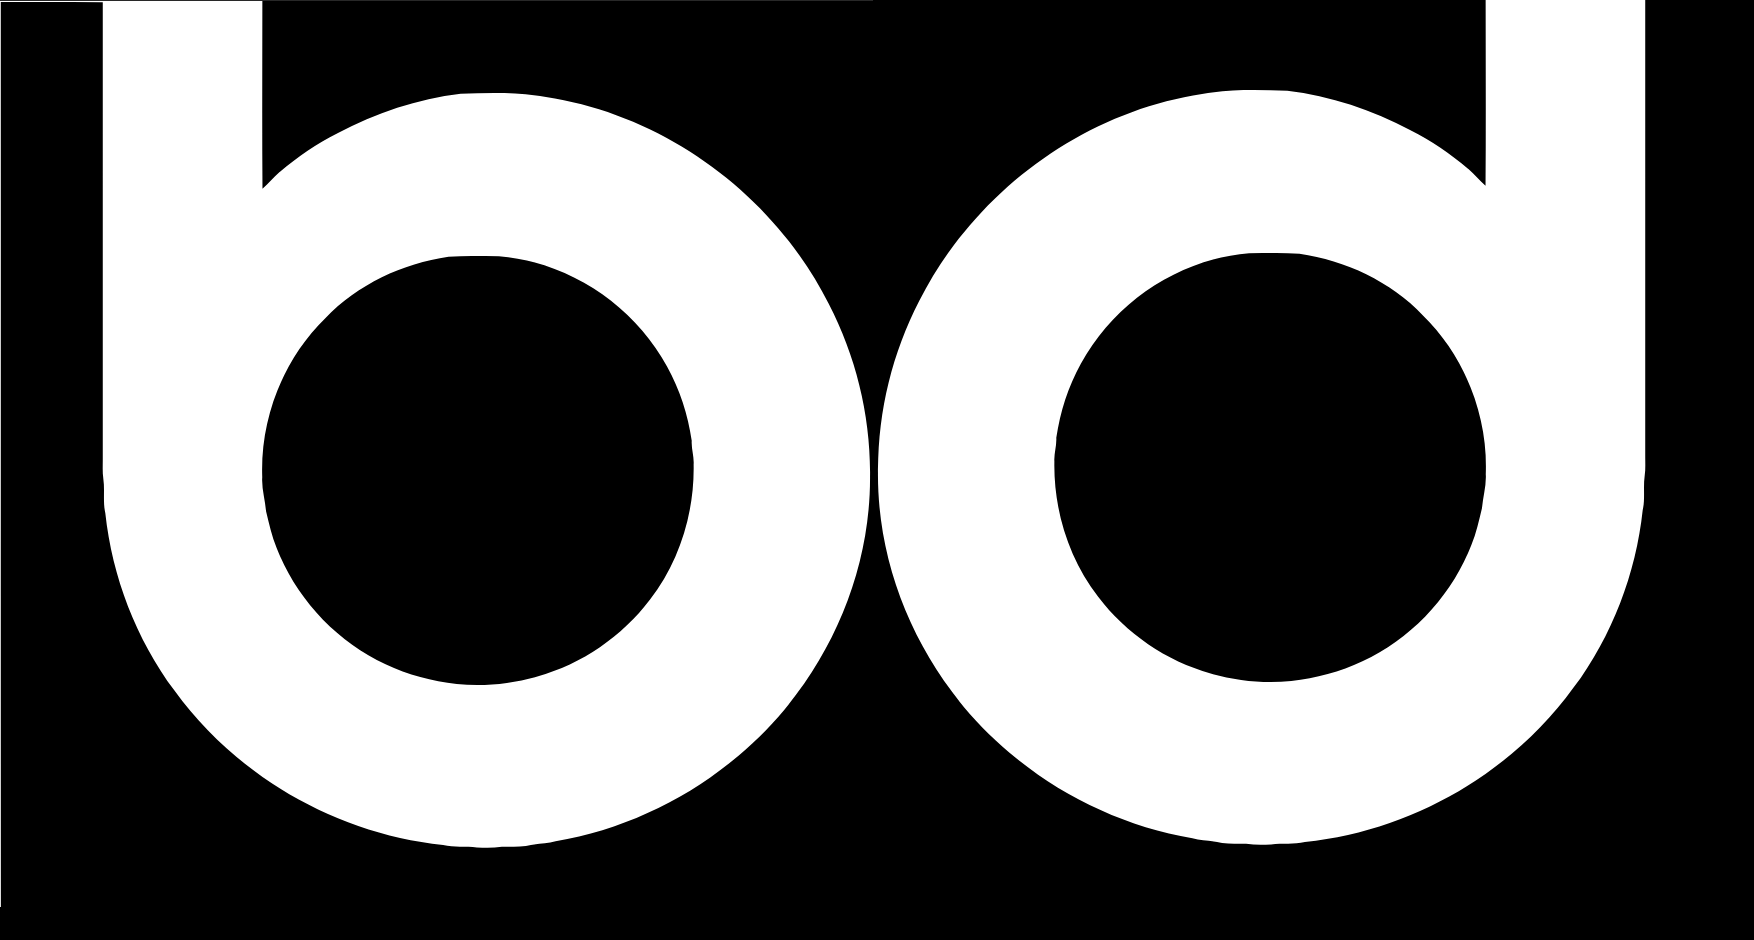
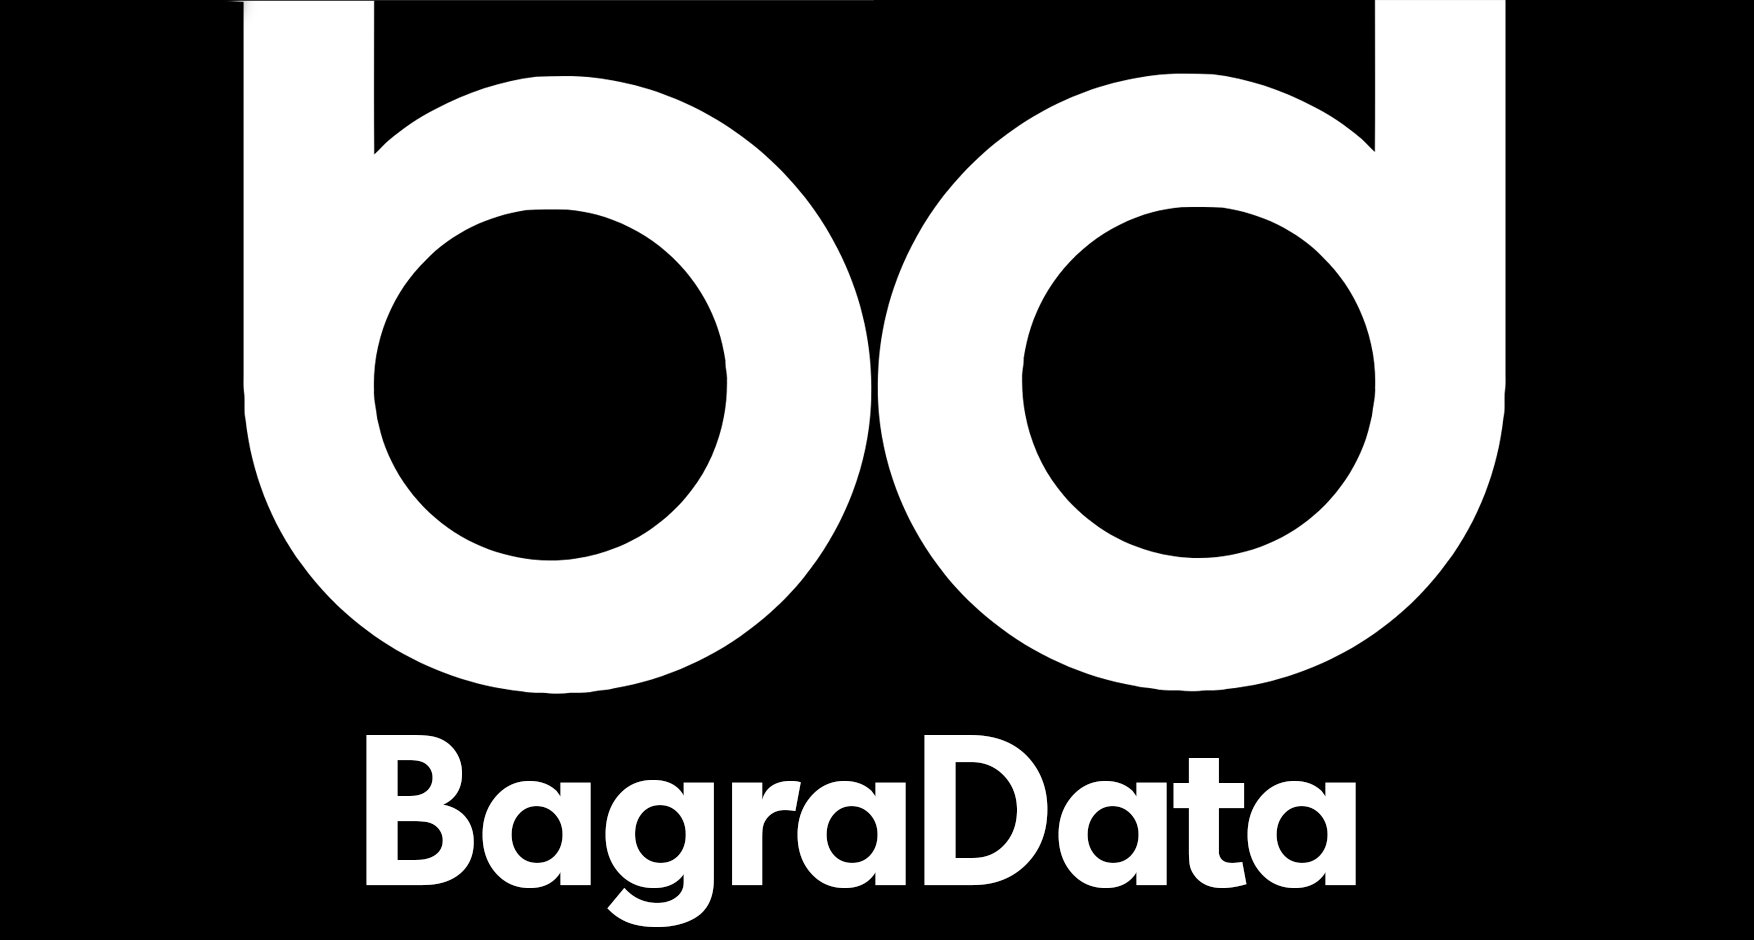
add clients

diff --git a/index.html b/index.html
@@ -218,12 +218,12 @@
                         data-aos="zoom-in">
                         <img src="assets/img/clients/client-acadza.png" class="img-fluid" alt="">
                     </div>
-                    <!--
+                    
                     <div class="col-lg-2 col-md-4 col-6 d-flex align-items-center justify-content-center"
                         data-aos="zoom-in">
-                        <img src="assets/img/clients/client-3.png" class="img-fluid" alt="">
+                        <img src="assets/img/clients/client-bagra-data.png" class="img-fluid" alt="">
                     </div>
-
+                    <!--
                     <div class="col-lg-2 col-md-4 col-6 d-flex align-items-center justify-content-center"
                         data-aos="zoom-in">
                         <img src="assets/img/clients/client-4.png" class="img-fluid" alt="">
